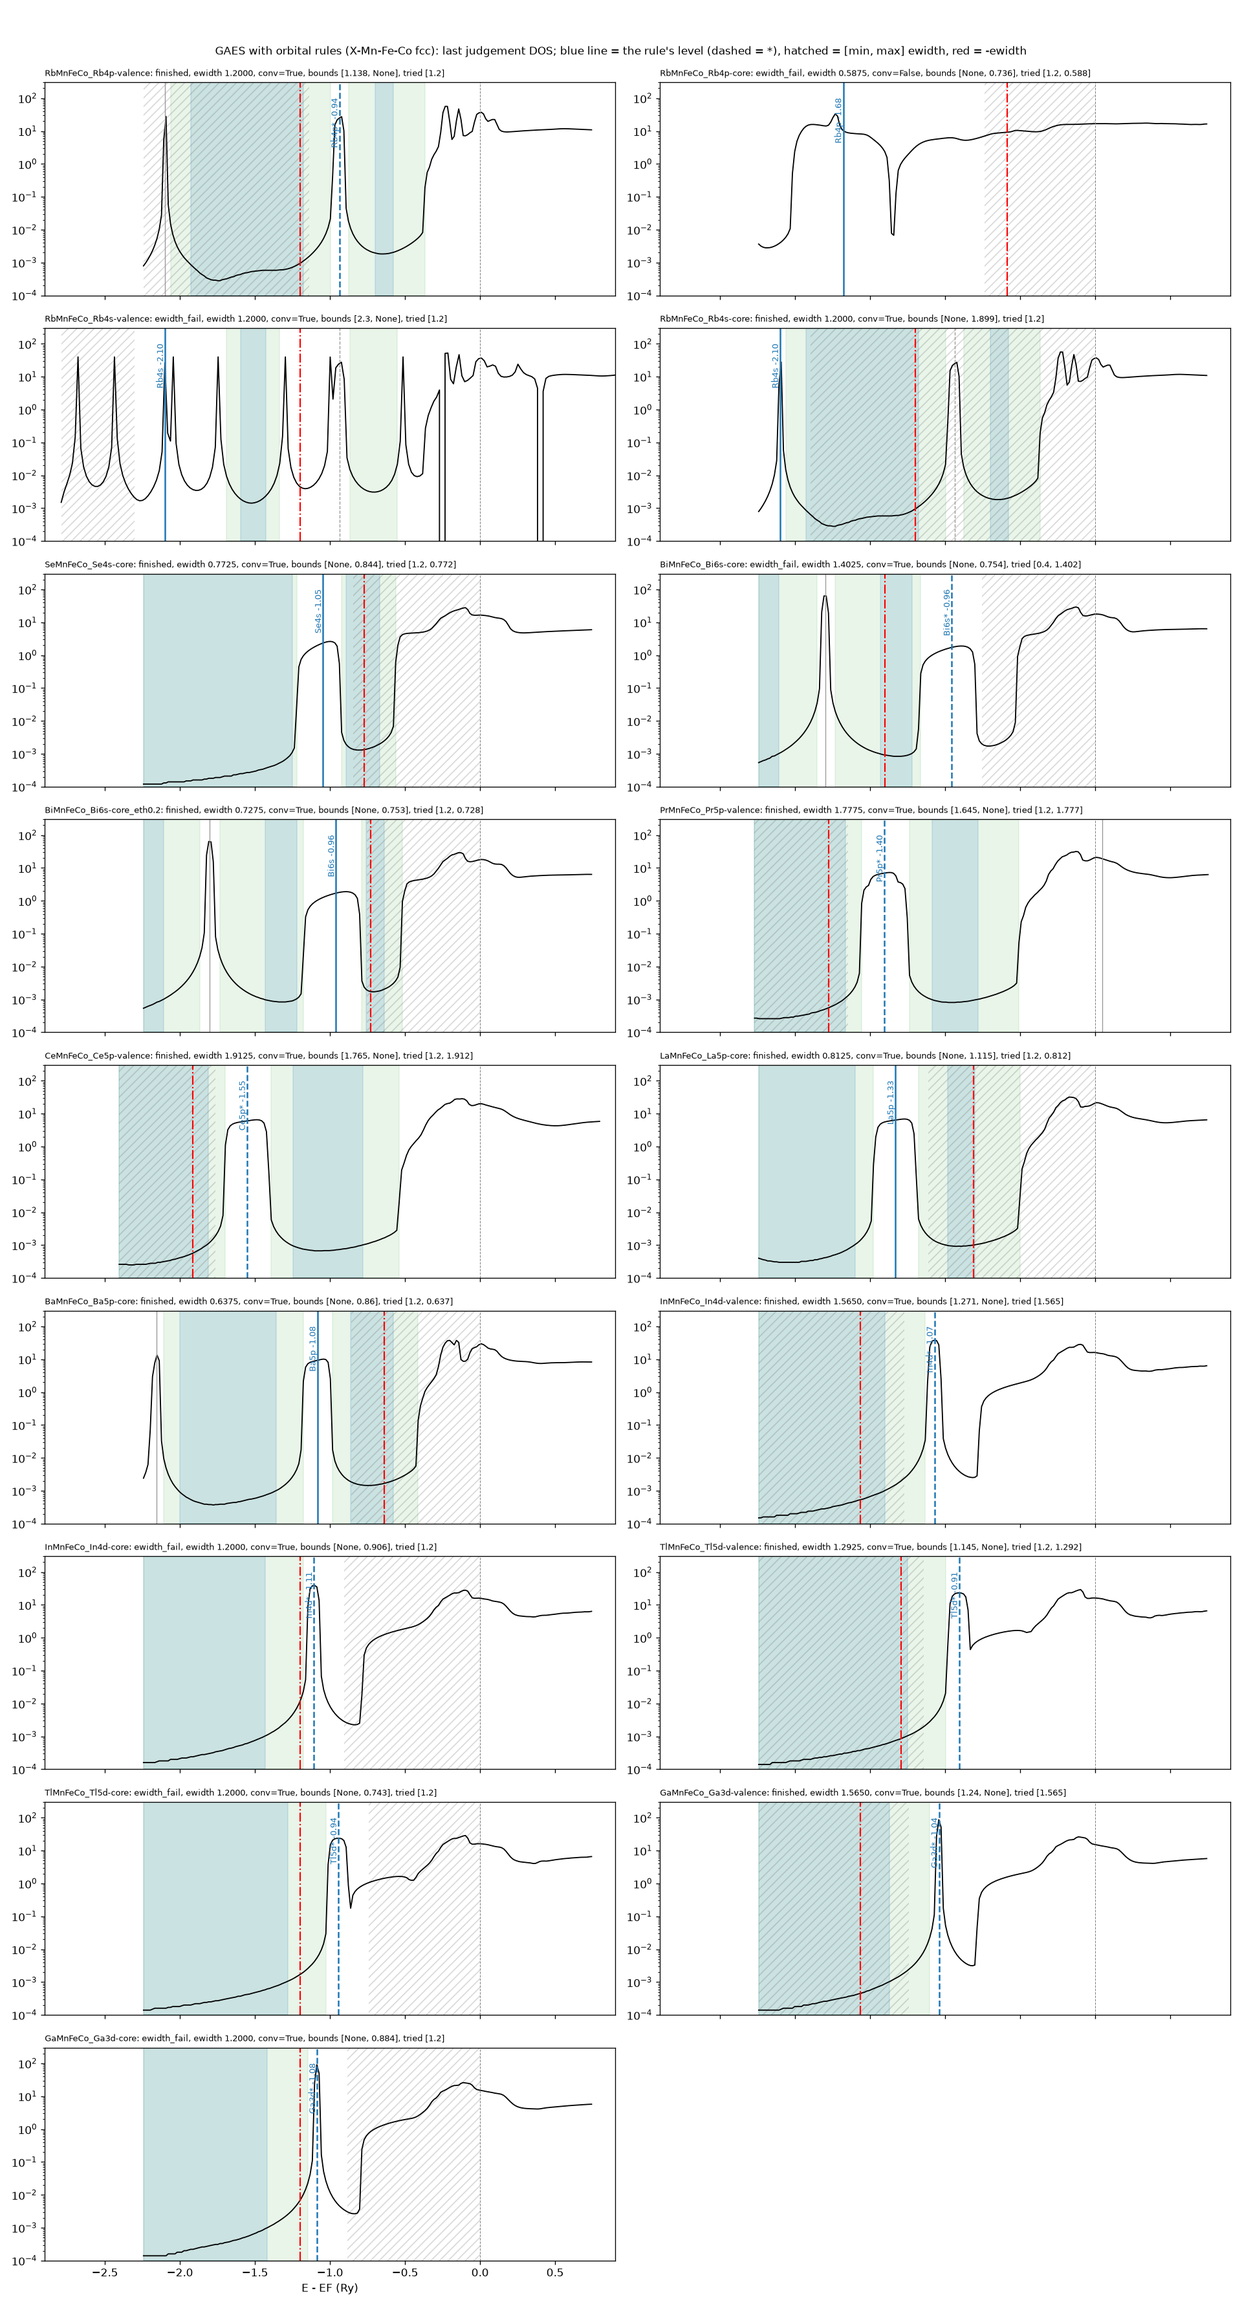
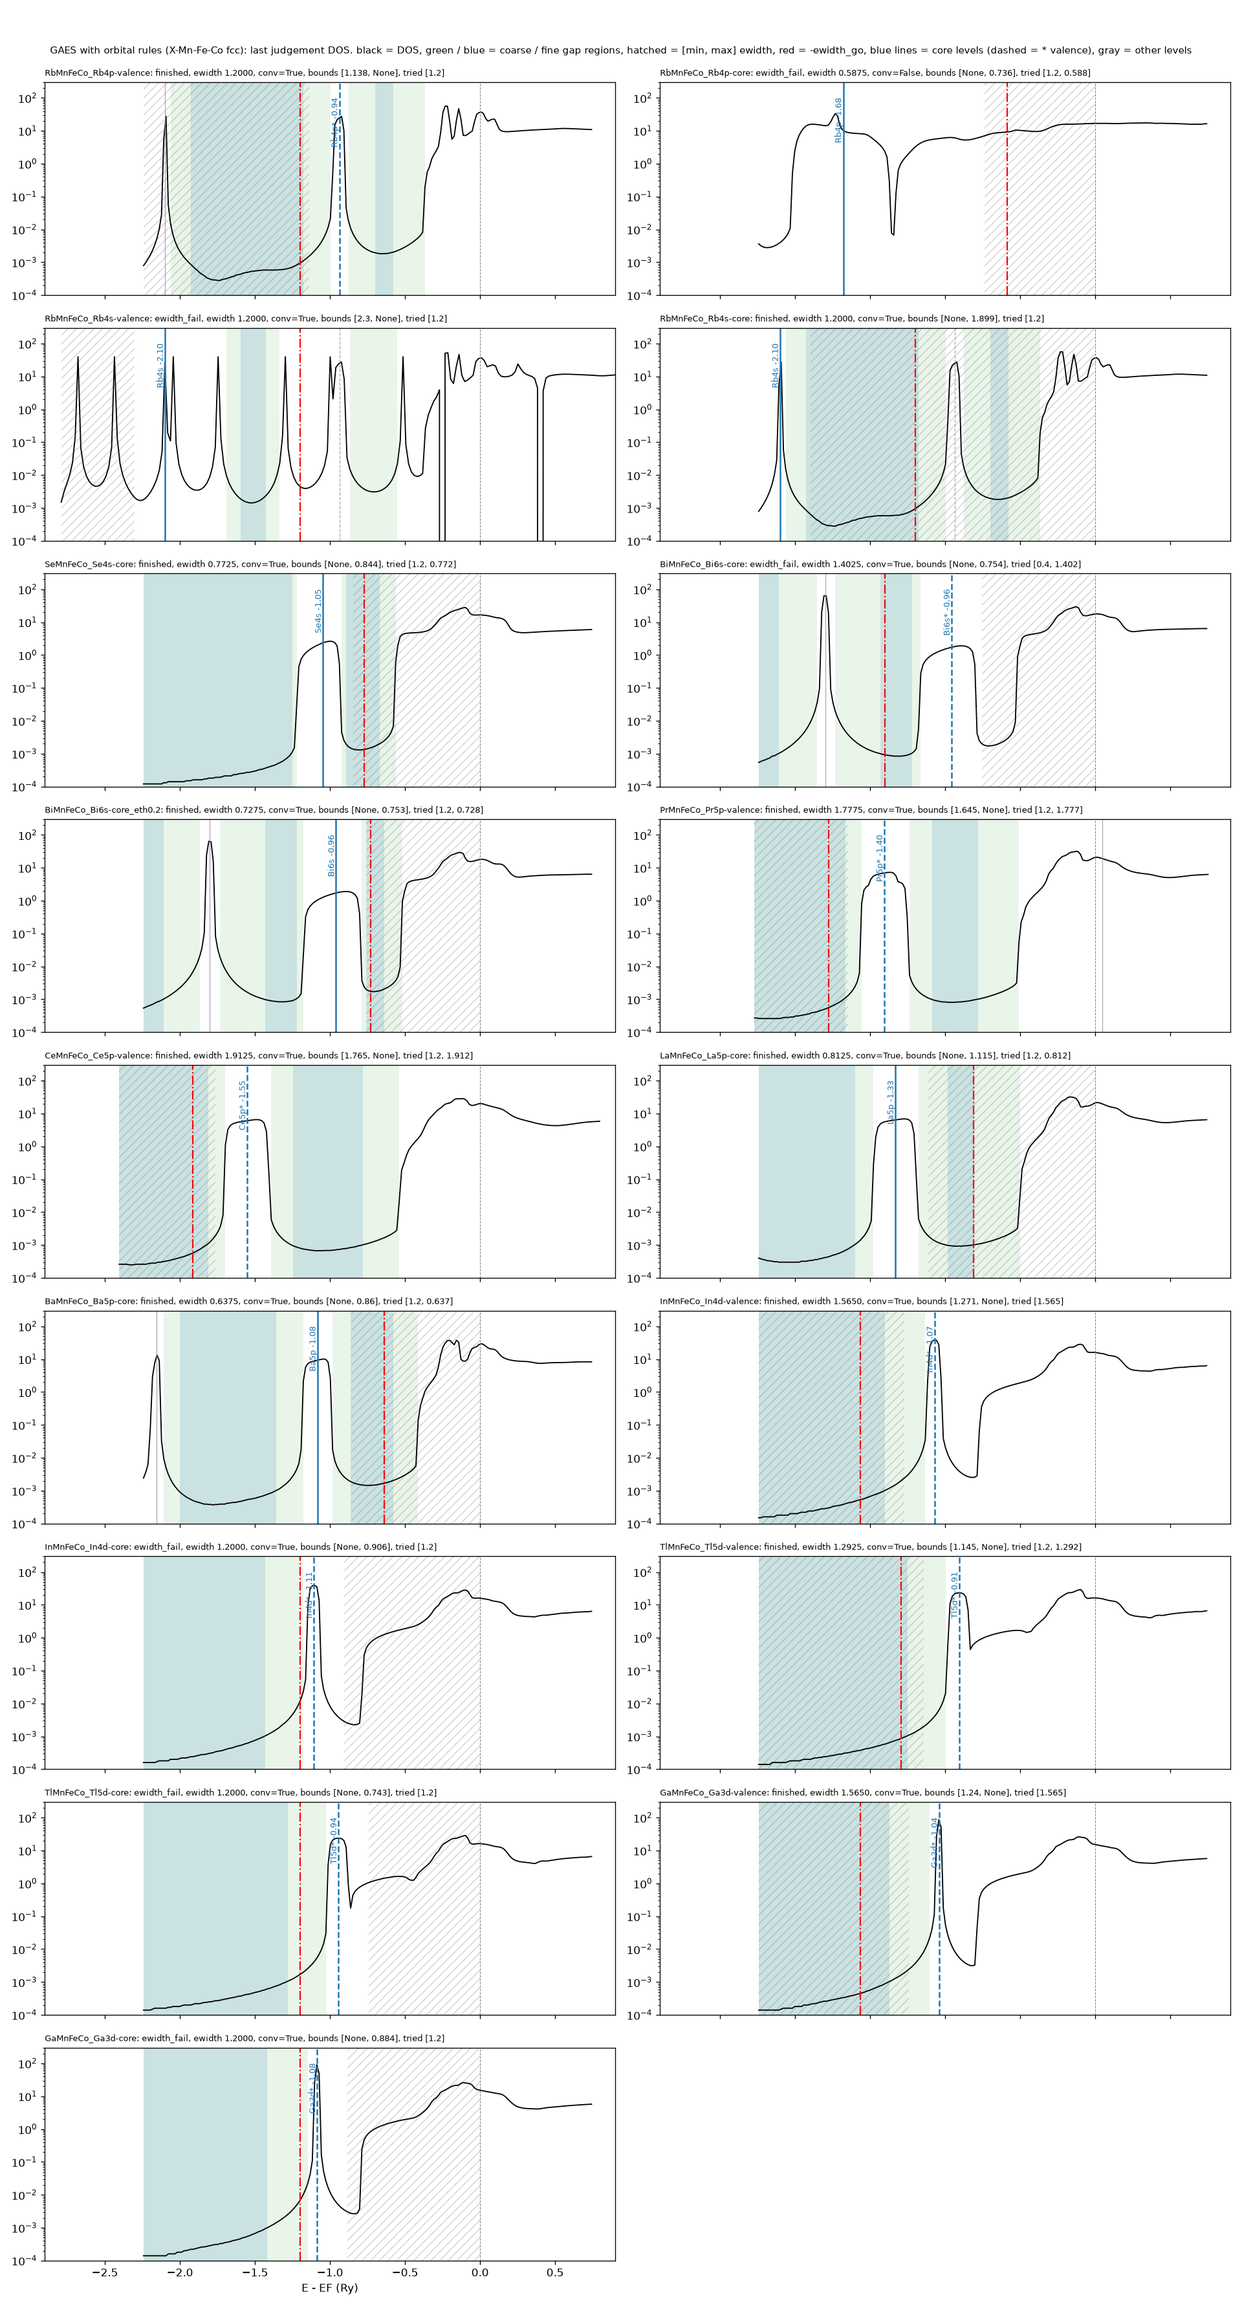
pyakaikkr.gaes.plot: shared DOS drawing (gap regions, ewidth bounds band, contour bottom, core levels); the three figure scripts use it

diff --git a/tests/gaes/tools/plot_hea_XMnFeCo.py b/tests/gaes/tools/plot_hea_XMnFeCo.py
@@ -1,10 +1,11 @@
 """DOS of the final GAES solution of each X-Mn-Fe-Co system with the component core levels overlaid."""
 import json, re, os, csv, glob, sys
-import numpy as np, matplotlib
+import matplotlib
 matplotlib.use("Agg"); import matplotlib.pyplot as plt
 from pyakaikkr import AkaikkrJob
 from pyakaikkr.gaes import dos_curves_from_outputs
 from pyakaikkr.gaes.ewidth import choose_ewidth2
+from pyakaikkr.gaes.plot import draw_gaes_dos, legend_text
 tableA = {}
 for r in csv.DictReader(open("/home/kino/kino/Claude/Project/AKAIKKR/AkaiKKRPythonUtil/docs/data/converged_core_levels_2019.csv")):
     tableA.setdefault(r["element"], []).append((r["orbital"], float(r["E_minus_EF_median_Ry"])))
@@ -36,35 +37,29 @@ for ax, name in zip(axes, names):
     if not os.path.isfile(dd + "/out_dos.log"):
         ax.set_title("%s: %s (no dos)" % (name, d["status"]), fontsize=9); continue
     e, c, _ = dos_curves_from_outputs([(AkaikkrJob(dd), "out_dos.log")]); ef, lv = own_levels(dd)
-    ax.plot(e, c[0], color="k", lw=1.1)
-    # re-judge the stored DOS with the current rules (regions touching the window bottom are examined too)
     pr = d.get("parameters", {})
     dec = choose_ewidth2(e, c, jf["ewidth"], dosth=pr.get("dosth", 2e-2), dosth2=pr.get("dosth2", 1e-3), eth=pr.get("eth", 0.3),
                          ediff=pr.get("ediff", 0.2), margin=pr.get("margin", 0.01), dosth2_relax=pr.get("dosth2_relax", 2.0),
                          min_ewidth=pr.get("min_ewidth"), max_ewidth=pr.get("max_ewidth"))
-    for g in dec.coarse: ax.axvspan(g.e1, g.e2, color="tab:green", alpha=0.10)
-    for g in dec.fine: ax.axvspan(g.e1, g.e2, color="tab:blue", alpha=0.15)
-    if dec.flag != jf["flag"] or [round(x, 4) for x in dec.candidates] != [round(x, 4) for x in jf.get("candidates", [])]:
+    if dec.flag != jf["flag"] or [round(v, 4) for v in dec.candidates] != [round(v, 4) for v in jf.get("candidates", [])]:
         print("re-judged %s: stored %s %s -> now %s %s" % (name, jf["flag"], jf.get("candidates"), dec.flag, dec.candidates))
-    lo, hi = pr.get("min_ewidth"), pr.get("max_ewidth")
-    if lo is not None and hi is not None:
-        ax.axvspan(-hi, -lo, facecolor="none", edgecolor="0.4", hatch="///", lw=0, alpha=0.25)
-    if d["ewidth_final"]: ax.axvline(-d["ewidth_final"], color="red", ls="-.", lw=1.2)
-    ax.axvline(0, color="gray", lw=0.6, ls="--")
+    # every level of the system: the X levels highlighted (blue), Mn / Fe / Co in their own colours below
+    draw_gaes_dos(ax, e, c[0], ewidth=d["ewidth_final"], decision=dec, bounds=(pr.get("min_ewidth"), pr.get("max_ewidth")),
+                  levels={el + l: [en, st] for el, l, en, st in lv if el == x}, highlight=[el + l for el, l, en, st in lv if el == x],
+                  xlim=(-2.4, 0.8))
     for el, l, en, st in lv:
-        col = COL.get(el, "tab:blue" if el == x else "k")
-        ax.axvline(en, color=col, lw=1.3, ls="--" if st else "-", alpha=0.9)
-        ax.text(en, 100, "%s %s%s %.2f" % (el, l, "*" if st else "", en), rotation=90, fontsize=7, color=col, ha="right", va="top")
+        if el != x:
+            ax.axvline(en, color=COL.get(el, "k"), lw=1.3, ls="--" if st else "-", alpha=0.9)
+            ax.text(en, 100, "%s %s%s %.2f" % (el, l, "*" if st else "", en), rotation=90, fontsize=7, color=COL.get(el, "k"), ha="right", va="top")
     for l, en in tableA.get(x, []): ax.axvline(en, color="tab:blue", lw=0.8, ls=":", alpha=0.7)
     conv = d["converged"].get("fcc")
-    ax.set_yscale("log"); ax.set_ylim(1e-4, 3e2); ax.set_xlim(-2.4, 0.8)
     ax.set_title("%s fcc: %s, ewidth %.4f, conv=%s, E_F=%.3f, tried %s" % (name, d["status"], d["ewidth_final"] or 0, conv, ef,
                  [round(t, 3) for t in d["ewidth_tried"]]), fontsize=8, loc="left")
     rows.append((x, name, d["status"], d["ewidth_final"], conv, ef, [(el, l, round(en, 3), st) for el, l, en, st in lv if el == x],
                  d["gap_used"], [j["flag"] for j in d["judgements"]]))
 for ax in axes[len(names):]: ax.axis("off")
 for ax in axes[-ncol:]: ax.set_xlabel("E - EF (Ry)")
-fig.suptitle("X-Mn-Fe-Co fcc HEAs: final GAES DOS (Method 2) with component core levels (solid core, dashed valence*, dotted = 2019 table); hatched = [min_ewidth, max_ewidth]", fontsize=10)
+fig.suptitle("X-Mn-Fe-Co fcc HEAs: final GAES DOS (Method 2). " + legend_text() + "; dotted = 2019 table", fontsize=9)
 fig.tight_layout(rect=(0, 0, 1, 0.985)); fig.savefig("hea_3d_dos.png", dpi=120); print("saved hea_3d_dos.png")
 print("%-4s %-10s %-16s %-7s %-5s %-6s %s" % ("X", "system", "status", "ewidth", "conv", "EF", "X core levels (E-EF) | gap_used | flags"))
 for r in rows: print("%-4s %-10s %-16s %-7s %-5s %-6.3f %s | %s | %s" % (r[0], r[1], r[2], r[3], r[4], r[5], r[6], r[7], r[8]))

diff --git a/library/PyAkaiKKR/src/pyakaikkr/gaes/plot.py b/library/PyAkaiKKR/src/pyakaikkr/gaes/plot.py
@@ -1,0 +1,93 @@
+# coding: utf-8
+# Copyright (c) 2021-2026 AkaiKKRteam.
+# Distributed under the terms of the Apache License, Version 2.0.
+"""matplotlib helpers shared by every GAES DOS figure: the gap regions (green coarse / blue fine),
+the [min_ewidth, max_ewidth] band (hatched), the contour bottom E_F - ewidth_go (red) and the
+core levels of the components (solid core, dashed '*' valence).
+
+    from pyakaikkr.gaes.plot import draw_gaes_dos
+    draw_gaes_dos(ax, energy, dos, ewidth=1.2, decision=dec, bounds=(1.0, 2.0), levels=levels_from_go(out_go))
+"""
+
+COARSE_COLOR, COARSE_ALPHA = "tab:green", 0.10
+FINE_COLOR, FINE_ALPHA = "tab:blue", 0.15
+BOUNDS_COLOR = "0.4"
+EWIDTH_COLOR = "red"
+LEVEL_COLOR, LEVEL_COLOR_OTHER = "tab:blue", "0.6"
+
+
+def shade_regions(ax, coarse=(), fine=()):
+    """green bands for the coarse gap regions, blue for the fine sub-regions (GapRegion or (e1, e2))."""
+    for g in coarse:
+        e1, e2 = (g.e1, g.e2) if hasattr(g, "e1") else g[:2]
+        ax.axvspan(e1, e2, color=COARSE_COLOR, alpha=COARSE_ALPHA, lw=0)
+    for g in fine:
+        e1, e2 = (g.e1, g.e2) if hasattr(g, "e1") else g[:2]
+        ax.axvspan(e1, e2, color=FINE_COLOR, alpha=FINE_ALPHA, lw=0)
+
+
+def shade_ewidth_bounds(ax, bounds, e_min=None, label=True):
+    """hatched band E_F - max_ewidth .. E_F - min_ewidth (None = open side: e_min / E_F)."""
+    if bounds is None:
+        return
+    lo, hi = bounds[0], bounds[1]
+    if lo is None and hi is None:
+        return
+    left = -hi if hi is not None else (e_min if e_min is not None else ax.get_xlim()[0])
+    right = -lo if lo is not None else 0.0
+    ax.axvspan(left, right, facecolor="none", edgecolor=BOUNDS_COLOR, hatch="///", lw=0, alpha=0.25,
+               label="[min, max] ewidth = [%s, %s]" % (lo, hi) if label else None)
+
+
+def draw_ewidth(ax, ewidth, label=None, **kw):
+    """the contour bottom E_F - ewidth_go (red dash-dot); ewidth may be None."""
+    if ewidth is None:
+        return
+    kw = dict(color=EWIDTH_COLOR, ls="-.", lw=1.3, label=label) | kw
+    ax.axvline(-ewidth, **kw)
+
+
+def draw_levels(ax, levels, highlight=(), e_min=None, y_text=100.0, fontsize=8):
+    """core levels E - E_F from levels_from_go (dict key -> Level with .e / .star) or a dict key -> [e, star]:
+    solid = core, dashed = '*' (valence). Keys in `highlight` are blue and labelled; others gray."""
+    for key, v in (levels or {}).items():
+        e, star = (v.e, v.star) if hasattr(v, "e") else (v[0], v[1])
+        if e_min is not None and e <= e_min:
+            continue
+        if key in highlight:
+            ax.axvline(e, color=LEVEL_COLOR, lw=1.5, ls="--" if star else "-")
+            ax.text(e, y_text, "%s%s %.2f" % (key, "*" if star else "", e), rotation=90, fontsize=fontsize,
+                    color=LEVEL_COLOR, ha="right", va="top")
+        else:
+            ax.axvline(e, color=LEVEL_COLOR_OTHER, lw=0.8, ls="--" if star else "-", alpha=0.8)
+
+
+def draw_gaes_dos(ax, energy, dos, ewidth=None, decision=None, coarse=(), fine=(), bounds=None, levels=None,
+                  highlight=(), log=True, ylim=(1e-4, 3e2), xlim=None):
+    """one GAES DOS panel: curve + regions + bounds band + contour bottom + core levels + E_F line.
+
+    decision: pyakaikkr.gaes.Decision (its coarse / fine are used unless coarse / fine are given).
+    bounds: (min_ewidth, max_ewidth) or None. levels: levels_from_go(...) dict (or {key: [e, star]}).
+    """
+    ax.plot(energy, dos, color="k", lw=1.1)
+    if decision is not None and not coarse and not fine:
+        coarse, fine = decision.coarse, decision.fine
+    shade_regions(ax, coarse, fine)
+    e_min = float(min(energy))
+    shade_ewidth_bounds(ax, bounds, e_min=e_min, label=False)
+    draw_ewidth(ax, ewidth)
+    ax.axvline(0, color="gray", lw=0.6, ls="--")
+    draw_levels(ax, levels, highlight=highlight, e_min=e_min, y_text=ylim[1] / 3)
+    if log:
+        ax.set_yscale("log")
+    ax.set_ylim(*ylim)
+    if xlim is not None:
+        ax.set_xlim(*xlim)
+
+
+def legend_text():
+    return ("black = DOS, green / blue = coarse / fine gap regions, hatched = [min, max] ewidth, "
+            "red = -ewidth_go, blue lines = core levels (dashed = * valence), gray = other levels")
+
+
+__all__ = ["draw_gaes_dos", "shade_regions", "shade_ewidth_bounds", "draw_ewidth", "draw_levels", "legend_text"]

diff --git a/tests/gaes/tools/plot_orbital_rules.py b/tests/gaes/tools/plot_orbital_rules.py
@@ -1,10 +1,11 @@
 """DOS of the last judgement of every orbital-rule GAES run (RUN_orb*), with the rule's level, the bounds band and the regions."""
 import json, glob, os, sys
-import numpy as np, matplotlib
+import matplotlib
 matplotlib.use("Agg"); import matplotlib.pyplot as plt
 from pyakaikkr import AkaikkrJob
 from pyakaikkr.gaes import dos_curves_from_outputs, levels_from_go
 from pyakaikkr.gaes.ewidth import choose_ewidth2
+from pyakaikkr.gaes.plot import draw_gaes_dos, legend_text
 # newest run of each tag wins (RUN_orb2 < ... < RUN_orb6)
 cases = {}
 for k in sorted(glob.glob("RUN_orb*/*/key_*.json")):
@@ -19,25 +20,12 @@ for ax, tag in zip(axes, order):
     lo, hi = jf["orbital_bounds"]
     dec = choose_ewidth2(e, c, jf["ewidth"], dosth=pr["dosth"], dosth2=pr["dosth2"], eth=pr["eth"], ediff=pr["ediff"],
                          margin=pr["margin"], dosth2_relax=pr["dosth2_relax"], min_ewidth=lo, max_ewidth=hi)
-    ax.plot(e, c[0], color="k", lw=1.1)
-    for g in dec.coarse: ax.axvspan(g.e1, g.e2, color="tab:green", alpha=0.10)
-    for g in dec.fine: ax.axvspan(g.e1, g.e2, color="tab:blue", alpha=0.15)
-    ax.axvspan(-hi if hi is not None else e[0], -lo if lo is not None else 0, facecolor="none", edgecolor="0.4", hatch="///", lw=0, alpha=0.25)
-    ax.axvline(-jf["ewidth"], color="red", ls="-.", lw=1.3)
-    ax.axvline(0, color="gray", lw=0.6, ls="--")
-    for r in rules:
-        key = r.split("=")[0]; v = lv.get(key)
-        if v is not None and v.e > e[0]:
-            ax.axvline(v.e, color="tab:blue", lw=1.5, ls="--" if v.star else "-")
-            ax.text(v.e, 100, "%s%s %.2f" % (key, "*" if v.star else "", v.e), rotation=90, fontsize=8, color="tab:blue", ha="right", va="top")
-    for key, v in lv.items():
-        if v.e > e[0] and key not in [r.split("=")[0] for r in rules]:
-            ax.axvline(v.e, color="0.6", lw=0.8, ls="--" if v.star else "-")
-    ax.set_yscale("log"); ax.set_ylim(1e-4, 3e2); ax.set_xlim(-2.9, 0.9)
+    draw_gaes_dos(ax, e, c[0], ewidth=jf["ewidth"], decision=dec, bounds=(lo, hi), levels=lv,
+                  highlight=[r.split("=")[0] for r in rules], xlim=(-2.9, 0.9))
     ax.set_title("%s: %s, ewidth %.4f, conv=%s, bounds [%s, %s], tried %s" % (
         tag, d["status"], jf["ewidth"], d["converged"].get("fcc"), lo and round(lo, 3), hi and round(hi, 3),
         [round(t, 3) for t in d["ewidth_tried"]]), fontsize=8, loc="left")
 for ax in axes[len(order):]: ax.axis("off")
 for ax in axes[-ncol:]: ax.set_xlabel("E - EF (Ry)")
-fig.suptitle("GAES with orbital rules (X-Mn-Fe-Co fcc): last judgement DOS; blue line = the rule's level (dashed = *), hatched = [min, max] ewidth, red = -ewidth", fontsize=10)
+fig.suptitle("GAES with orbital rules (X-Mn-Fe-Co fcc): last judgement DOS. " + legend_text(), fontsize=9)
 fig.tight_layout(rect=(0, 0, 1, 0.985)); out = os.environ.get("OUT", "orbital_dos.png"); fig.savefig(out, dpi=120); print("saved", out, len(order), "panels")

diff --git a/tests/gaes/tools/plot_conv_pairs.py b/tests/gaes/tools/plot_conv_pairs.py
@@ -1,10 +1,11 @@
 """DOS of go runs where a small change of ewidth flips the SCF convergence (spec section 12 note)."""
-import re, glob, os
-import numpy as np, matplotlib
+import re, glob
+import matplotlib
 matplotlib.use("Agg"); import matplotlib.pyplot as plt
 from pyakaikkr import AkaikkrJob
 from pyakaikkr.gaes import dos_curves_from_outputs, levels_from_go
 from pyakaikkr.gaes.ewidth import choose_ewidth2
+from pyakaikkr.gaes.plot import draw_gaes_dos, legend_text
 H = "/tmp/claude-1000/-home-kino-kino-Claude-Project-AKAIKKR/cf1c7f21-9c6c-416d-bd70-1577df1e05cf/scratchpad/ewscan_AlSiSnHf"
 T = "/home/kino/kino/Claude/Project/AKAIKKR/AkaiKKRPythonUtil/tests/gaes/RUN_Hf_stopped/Al0p25Si0p25Sn0p25Hf0p25_bcc"
 PAIRS = [
@@ -22,24 +23,13 @@ for row, (name, keys, runs) in enumerate(PAIRS):
         ax = axes[row, col]
         e, c, _ = dos_curves_from_outputs([(AkaikkrJob(d), "out_dos.log")]); lv = levels_from_go(d + "/out_go.log")
         n, err, _ = info(d); conv = err is not None and err < -5.9
-        ax.plot(e, c[0], color="k", lw=1.1)
         # gap regions by the Method 2 rules (dosth 2e-2 / dosth2 1e-3, eth 0.3, ediff 0.2), no ewidth bounds
         dec = choose_ewidth2(e, c, ew, dosth=2e-2, dosth2=1e-3, eth=0.3, ediff=0.2)
-        for g in dec.coarse: ax.axvspan(g.e1, g.e2, color="tab:green", alpha=0.10)
-        for g in dec.fine: ax.axvspan(g.e1, g.e2, color="tab:blue", alpha=0.15)
         flag = dec.flag
-        ax.axvline(-ew, color="red", ls="-.", lw=1.4); ax.axvline(0, color="gray", lw=0.6, ls="--")
-        for k in keys:
-            v = lv.get(k)
-            if v is not None:
-                ax.axvline(v.e, color="tab:blue", lw=1.5, ls="--" if v.star else "-")
-                ax.text(v.e, 100, "%s%s %.2f" % (k, "*" if v.star else "", v.e), rotation=90, fontsize=8, color="tab:blue", ha="right", va="top")
-        for k, v in lv.items():
-            if v.e > e[0] and k not in keys: ax.axvline(v.e, color="0.6", lw=0.8, ls="--" if v.star else "-")
-        ax.set_yscale("log"); ax.set_ylim(1e-4, 3e2); ax.set_xlim(-2.9, 0.9)
+        draw_gaes_dos(ax, e, c[0], ewidth=ew, decision=dec, levels=lv, highlight=keys, xlim=(-2.9, 0.9))
         ax.set_title("%s: ewidth %.4f, %s (itr %s, log10 rms %s), gap judgement: %s" % (
             name, ew, "converged" if conv else "NOT converged", n, err, flag), fontsize=8, loc="left",
             color="k" if conv else "darkred")
 for ax in axes[-1]: ax.set_xlabel("E - EF (Ry)")
-fig.suptitle("SCF convergence flips with ewidth: red = -ewidth (contour bottom), blue = the level concerned (dashed = * valence), gray = other core levels; green / blue shade = coarse / fine gap regions (Method 2)", fontsize=10)
+fig.suptitle("SCF convergence flips with ewidth. " + legend_text(), fontsize=9)
 fig.tight_layout(rect=(0, 0, 1, 0.98)); fig.savefig("conv_pairs_dos.png", dpi=120); print("saved conv_pairs_dos.png")

diff --git a/docs/gaes_usage.md b/docs/gaes_usage.md
@@ -55,6 +55,23 @@ kkr-gaes site --exe ... --comp BiMnFeCo --polytyp fcc --orbital Bi6s=occupied --
 kkr-gaes check --dos RUN/.../out_dos.log --go RUN/.../out_go.log --ewidth 1.2 --orbital Rb4p=core   # 範囲と準位を表示
 ```
 
+## DOS 図の共通部品（`pyakaikkr.gaes.plot`）
+
+GAES の DOS 図はどれも同じ要素（緑 = 粗いギャップ区間、青 = 細かい部分区間、斜線 = [min_ewidth, max_ewidth] の帯、赤 = −ewidth_go、青線 = 注目する core 準位（破線 `*`）、灰線 = 他の準位）を描くので、`draw_gaes_dos` に集約した。
+
+```python
+from pyakaikkr.gaes import dos_curves_from_outputs, levels_from_go
+from pyakaikkr.gaes.ewidth import choose_ewidth2
+from pyakaikkr.gaes.plot import draw_gaes_dos, legend_text
+e, c, _ = dos_curves_from_outputs([(AkaikkrJob(d), "out_dos.log")])
+dec = choose_ewidth2(e, c, 1.2, dosth=2e-2, dosth2=1e-3, min_ewidth=1.0, max_ewidth=2.0)
+draw_gaes_dos(ax, e, c[0], ewidth=1.2, decision=dec, bounds=(1.0, 2.0), levels=levels_from_go(d + "/out_go.log"),
+              highlight=["Bi6s"], xlim=(-2.4, 0.8))
+fig.suptitle(legend_text())
+```
+
+`tests/gaes/tools/plot_hea_XMnFeCo.py`, `plot_orbital_rules.py`, `plot_conv_pairs.py` がこれを使う（docs/data の図）。aiida-akaikkr の `plot --gaes-pk` は自前の配色で同じ要素を描く。
+
 ## 軌道の valence / core 指定（`--orbital`、`Gaes(orbitals=[...])`）
 
 `Rb4p=valence`（別名 `occupied`: 積分路に入れる）、`Rb4p=core`（別名 `unoccupied`: 積分路から外す）のように、元素・軌道ごとに指定できる（仕様: ewidth_tuning_scheme.md §15）。
